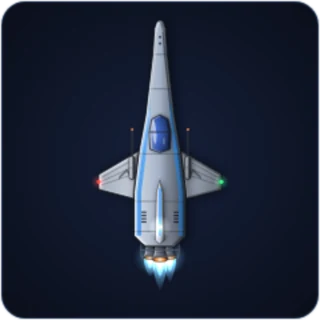
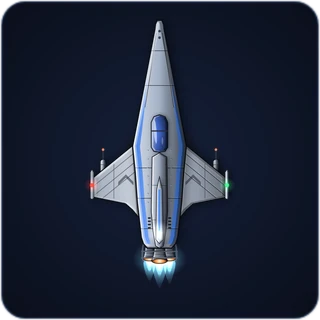
update fighter

Changed region(s): [[0.25, 0.0625, 0.75, 0.875]]

diff --git a/client/js/render/shipshd.js b/client/js/render/shipshd.js
@@ -332,20 +332,22 @@ const scout = {
 
 /* -------------------------------------------------------------- Fighter */
 // After the Viper Mk VII in plan view - the same outline as the map icon
-// (ships.js): a long wedge of a fuselage, narrow at the rounded nose and
-// broad at the stern, the blue canopy in the middle, slim delta wings with
-// small clipped tips, cannons whose barrels reach far forward, a tail fin as
-// a thin ridge and three engines close together in a cage.
+// (ships.js): a straight wedge of a fuselage from the rounded nose to the
+// wing roots, tapering again towards the stern, the blue canopy in front of
+// the wings, big swept wings with straight cut tips and a rail along them,
+// gun pods beneath the wings near the tips whose barrels reach past the
+// leading edge, a dorsal spine with the tail fin and three engines in a cage.
 // Silver of the fighter's wings, a touch brighter than the fuselage.
 const WING = '#b4bfd0';
 // Half width of the fighter's fuselage along its length - the points of hull() below.
-const FIGHTER_HULL = [[60, 1.6], [56, 2.6], [44, 3.4], [16, 6.7], [0, 9.6], [-20, 12], [-40, 12]];
+const FIGHTER_HULL = [[60, 1.1], [58, 1.9], [56, 2.1], [2, 12.4], [-10, 11.2], [-24, 10.2], [-31, 9.4],
+  [-40, 8.4], [-43, 7.4], [-45, 5.6]];
 function fighterHalfWidth(x) {
   for (let i = 1; i < FIGHTER_HULL.length; i++) {
     const [x0, y0] = FIGHTER_HULL[i - 1], [x1, y1] = FIGHTER_HULL[i];
     if (x <= x0 && x >= x1) return y0 + (y1 - y0) * (x0 - x) / (x0 - x1);
   }
-  return 12;
+  return 5.6;
 }
 
 const fighter = {
@@ -356,57 +358,64 @@ const fighter = {
     { x: -50, y: 4.6, r: 3.2, color: '#7fd8ff' }
   ],
   lights: [
-    { x: -15, y: -28.4, r: 1, color: RED, off: 0 },
-    { x: -15, y: 28.4, r: 1, color: GREEN, off: 0 },
-    { x: -36, y: 0, r: 0.9, color: WHITE, off: 0.6, strobe: true }
+    { x: -16, y: -31.1, r: 1, color: RED, off: 0 },
+    { x: -16, y: 31.1, r: 1, color: GREEN, off: 0 },
+    { x: -38, y: 0, r: 0.9, color: WHITE, off: 0.6, strobe: true }
   ],
   body(ctx, color, S) {
     for (const s of [-1, 1]) nozzle(ctx, -50, s * 4.6, 3.2, 5.5);
     nozzle(ctx, -51, 0, 3.8, 6.5);
     for (const s of [-1, 1]) {
-      // Slim delta with a small clipped tip and a nearly straight trailing edge
-      const w = () => poly(ctx, [[-0.6, s * 9.5], [-11.6, s * 28.4], [-18.6, s * 28.4], [-23, s * 11.6]]);
+      // Gun pod beneath the wing near the tip: the wing covers its rear, the
+      // barrel reaches far past the leading edge
+      const cy = s * 26;
+      const pod = capsule(ctx, -17, -4, cy, 1.3, '#9aa6b8', S * 0.6);
+      inside(ctx, pod, () => seam(ctx, -6.5, cy - 1.5, -6.5, cy + 1.5, 0.25));
+      ctx.fillStyle = '#2a303d'; ctx.fillRect(-4, cy - 0.45, 4.4, 0.9);
+      ctx.fillStyle = '#ff8a5c'; ctx.beginPath(); ctx.arc(0.4, cy, 0.6, 0, TAU); ctx.fill();
+      // Big swept wing with a straight cut tip and a nearly straight trailing
+      // edge that blends into the stern
+      const w = () => poly(ctx, [[3, s * 11.5], [-12.4, s * 30.4], [-21.6, s * 30.4], [-24.6, s * 15.6],
+        [-27.4, s * 12.4], [-31.5, s * 9]]);
       w();
       // Silver wings - the empire color sits on the fuselage stripes instead
-      const g = ctx.createLinearGradient(0, s * 9, 0, s * 28.4);
+      const g = ctx.createLinearGradient(0, s * 9, 0, s * 30.4);
       g.addColorStop(0, tone(WING, s < 0 ? 0.35 : -0.05));
       g.addColorStop(1, tone(WING, s < 0 ? -0.1 : -0.42));
       fillShadowed(ctx, g, S);
       inside(ctx, w, () => {
-        // Panel lines parallel to the trailing edge, as on the original
-        for (const d of [0, 3.5, 7]) seam(ctx, -4 - d, s * 11, -13 - d * 0.5, s * 27, 0.3);
+        // Panel lines parallel to the leading edge, as on the original
+        for (const d of [4, 8.5, 13]) seam(ctx, 3 - d, s * 11.5, -12.4 - d, s * 30.4, 0.3);
+        seam(ctx, -6, s * 21, -22, s * 21, 0.25);
         // Chevron as insignia, embossed dark into the silver
         ctx.fillStyle = 'rgba(40,46,60,.55)';
-        poly(ctx, [[-9, s * 15.5], [-12.5, s * 19], [-14, s * 19], [-10.5, s * 15.5], [-14, s * 12], [-12.5, s * 12]]); ctx.fill();
+        poly(ctx, [[-11, s * 15.5], [-14.5, s * 19], [-16, s * 19], [-12.5, s * 15.5], [-16, s * 12], [-14.5, s * 12]]); ctx.fill();
         // Leading edge shines
         ctx.fillStyle = 'rgba(255,255,255,.16)';
-        poly(ctx, [[-0.6, s * 9.5], [-11.6, s * 28.4], [-12.6, s * 27], [-1.6, s * 10]]); ctx.fill();
+        poly(ctx, [[3, s * 11.5], [-12.4, s * 30.4], [-13.6, s * 29.4], [1.8, s * 11.6]]); ctx.fill();
       });
       bevel(ctx, w, 0.8);
-      // Cannon on the wing root, snug against the fuselage: the barrel reaches
-      // far past the leading edge, alongside the canopy
-      const cy = s * 12.9;
-      const pod = capsule(ctx, -14, -3, cy, 1.3, '#9aa6b8', S * 0.6);
-      inside(ctx, pod, () => seam(ctx, -8.5, cy - 1.5, -8.5, cy + 1.5, 0.25));
-      ctx.fillStyle = '#2a303d'; ctx.fillRect(-3, cy - 0.45, 12, 0.9);
-      ctx.fillStyle = '#ff8a5c'; ctx.beginPath(); ctx.arc(9.2, cy, 0.6, 0, TAU); ctx.fill();
+      // Rail along the wing tip, a little ahead of the leading edge
+      const rail = () => poly(ctx, [[-8.6, s * 31.1], [-10, s * 30.3], [-22, s * 30.3], [-22.6, s * 31.1],
+        [-22, s * 31.9], [-10, s * 31.9]]);
+      rail(); fillShadowed(ctx, metal(ctx, s * 30.3, s * 31.9, '#aab6c8'), S * 0.5);
+      bevel(ctx, rail, 0.35);
     }
     // Engine cage around the three nozzles
     ctx.strokeStyle = '#596274'; ctx.lineWidth = 0.6;
     for (const s of [-1, 1]) {
-      ctx.beginPath(); ctx.moveTo(-43, s * 8.6); ctx.quadraticCurveTo(-49, s * 9.4, -51.5, s * 7.6); ctx.stroke();
+      ctx.beginPath(); ctx.moveTo(-43, s * 7.4); ctx.quadraticCurveTo(-49, s * 8.6, -51.5, s * 7.2); ctx.stroke();
     }
-    for (const x of [-46.5, -49.5]) { ctx.beginPath(); ctx.moveTo(x, -9); ctx.lineTo(x, 9); ctx.stroke(); }
-    // Fuselage: narrow at the rounded nose, broad at the stern
-    const hull = () => sym(ctx, [[60, 0], [59, -1.6], [56, -2.6], [44, -3.4], [16, -6.7], [0, -9.6], [-20, -12],
-      [-40, -12], [-43, -9], [-45, -6.7], [-45, 0]]);
-    hull(); fillShadowed(ctx, metal(ctx, -12, 12, '#a3b1c6'), S);
+    for (const x of [-46.5, -49.5]) { ctx.beginPath(); ctx.moveTo(x, -8.4); ctx.lineTo(x, 8.4); ctx.stroke(); }
+    // Fuselage: a wedge from the rounded nose to the wing roots, slimmer again at the stern
+    const hull = () => sym(ctx, [[60, 0], ...FIGHTER_HULL.map(([x, h]) => [x, -h]), [-45, 0]]);
+    hull(); fillShadowed(ctx, metal(ctx, -12.4, 12.4, '#a3b1c6'), S);
     inside(ctx, hull, () => {
       // Empire stripes left and right, following the contour just inside the
       // edge: a fine point behind the nose, full width from the canopy back.
       for (const s of [-1, 1]) {
-        const xs = [30, 22, 16, 8, 0, -10, -20, -30, -40];
-        const at = (x, d) => [x, s * (fighterHalfWidth(x) - 1 - d * Math.min(1, (30 - x) / 30))];
+        const xs = [34, 26, 18, 10, 2, -10, -24, -31, -40, -43];
+        const at = (x, d) => [x, s * (fighterHalfWidth(x) - 1 - d * Math.min(1, (34 - x) / 30))];
         ctx.beginPath();
         xs.forEach((x, i) => i ? ctx.lineTo(...at(x, 0)) : ctx.moveTo(...at(x, 0)));
         xs.slice().reverse().forEach(x => ctx.lineTo(...at(x, 2.4)));
@@ -416,26 +425,31 @@ const fighter = {
         g.addColorStop(1, tone(color, s < 0 ? -0.1 : -0.45));
         ctx.fillStyle = g; ctx.fill();
       }
-      for (const x of [44, 28, -2, -24, -38]) seam(ctx, x, -12, x, 12);
-      seam(ctx, 54, -1.4, 18, -5, 0.3); seam(ctx, 54, 1.4, 18, 5, 0.3);
+      for (const x of [46, 30, -8, -22, -36]) seam(ctx, x, -12.4, x, 12.4);
+      seam(ctx, 54, -1.4, 20, -6.6, 0.3); seam(ctx, 54, 1.4, 20, 6.6, 0.3);
       // Sensor openings at the nose
       ctx.fillStyle = 'rgba(20,26,38,.75)';
-      for (const x of [52, 49]) { ctx.beginPath(); ctx.arc(x, 0, 0.6, 0, TAU); ctx.fill(); }
-      // Vents and rivets on the broad back
-      vents(ctx, -34, -7.5, 4, 2.4, 1.5); vents(ctx, -34, 7.5, 4, 2.4, 1.5);
-      rivets(ctx, -22, 0, -9, 7, 0.3); rivets(ctx, -22, 0, 9, 7, 0.3);
+      for (const x of [55, 52]) { ctx.beginPath(); ctx.arc(x, 0, 0.6, 0, TAU); ctx.fill(); }
+      // Vents and rivets beside the spine
+      vents(ctx, -36, -4.7, 4, 1.4, 1.5); vents(ctx, -36, 4.7, 4, 1.4, 1.5);
+      rivets(ctx, -24, 0, -5.4, 7, 0.3); rivets(ctx, -24, 0, 5.4, 7, 0.3);
     });
     bevel(ctx, hull, 1);
-    // Tail fin - from above only a thin ridge, the empire color on its edge
-    const fin = () => sym(ctx, [[-14, 0], [-20, -1.6], [-42, -2.2], [-44, 0]]);
-    fin(); fillShadowed(ctx, metal(ctx, -2.2, 2.2, '#c3ccda'), S * 0.6);
-    inside(ctx, fin, () => { ctx.fillStyle = color; ctx.fillRect(-40, -0.5, 22, 1); });
+    // Dorsal spine from the canopy to the stern
+    const spine = () => sym(ctx, [[-1, 0], [-3, -3.4], [-28, -3.8], [-37, -3], [-44, -1.8], [-45, 0]]);
+    spine(); fillShadowed(ctx, metal(ctx, -3.8, 3.8, '#97a4b9'), S * 0.6);
+    inside(ctx, spine, () => { seam(ctx, -16, -3.6, -16, 3.6, 0.25); seam(ctx, -32, -3.5, -32, 3.5, 0.25); });
+    bevel(ctx, spine, 0.5);
+    // Tail fin on top of it - from above only a thin ridge, the empire color on its edge
+    const fin = () => sym(ctx, [[-12, 0], [-18, -1.3], [-41, -1.7], [-43, 0]]);
+    fin(); fillShadowed(ctx, '#aeb8c9', S * 0.4);
+    inside(ctx, fin, () => { ctx.fillStyle = color; ctx.fillRect(-39, -0.45, 21, 0.9); });
     bevel(ctx, fin, 0.4);
-    // Blue canopy in the middle
-    const cab = () => sym(ctx, [[16, 0], [14, -3.8], [8, -5], [0, -4.6], [-1.5, 0]]);
-    glass(ctx, cab, -1.5, 16, -5, 5, '#4f7cf0', S);
+    // Blue canopy in front of the wings
+    const cab = () => sym(ctx, [[16.5, 0], [15.6, -2.6], [13, -3.8], [1.5, -3.8], [-0.4, -2.6], [-0.8, 0]]);
+    glass(ctx, cab, -0.8, 16.5, -3.8, 3.8, '#4f7cf0', S);
     ctx.strokeStyle = 'rgba(40,46,60,.9)'; ctx.lineWidth = 0.6;
-    ctx.beginPath(); ctx.moveTo(8, -5); ctx.lineTo(8, 5); ctx.stroke();
+    ctx.beginPath(); ctx.moveTo(9, -3.8); ctx.lineTo(9, 3.8); ctx.stroke();
   }
 };
 

diff --git a/client/js/render/ships.js b/client/js/render/ships.js
@@ -155,66 +155,73 @@ function drawScout(ctx, L, color, phase) {
 
 /* -------------------------------------------------------------- Fighter */
 function drawFighter(ctx, L, color, phase) {
-  // After the Viper Mk VII in plan view (units of L/100): a long wedge of a
-  // fuselage, the blue canopy in the middle, slim delta wings with small
-  // clipped tips, cannons whose barrels reach far forward, three engines.
+  // After the Viper Mk VII in plan view (units of L/100): a straight wedge of
+  // a fuselage up to the wing roots, slimmer again at the stern, the blue
+  // canopy in front of big swept wings with straight cut tips, gun pods
+  // beneath the wings near the tips, a dorsal spine, three engines.
   const u = L / 100;
   const P = (pts, s = 1) => tracePath(ctx, pts.map(([x, y]) => [x * u, s * y * u]));
   const mirror = pts => [...pts, ...pts.slice(1, -1).reverse().map(([x, y]) => [x, -y])];
   // Three engines close together
   engineGlow(ctx, -L * 0.53, 0, L * 0.24, phase);
   for (const s of [-1, 1]) engineGlow(ctx, -L * 0.51, s * 4.6 * u, L * 0.17, phase + 0.9 * s);
-  // Slim silver delta wings - the empire color sits on the fuselage stripes
   for (const s of [-1, 1]) {
-    P([[-0.6, 9.5], [-11.6, 28.4], [-18.6, 28.4], [-23, 11.6]], s); ctx.closePath();
+    // Gun pod beneath the wing: only its front and the barrel show
+    const y = s * 26 * u;
+    ctx.strokeStyle = '#c3ccd8'; ctx.lineWidth = Math.max(0.6, L * 0.018);
+    ctx.beginPath(); ctx.moveTo(-4 * u, y); ctx.lineTo(0.5 * u, y); ctx.stroke();
+    ctx.fillStyle = '#8994a8';
+    ctx.beginPath(); ctx.roundRect(-17 * u, y - 1.3 * u, 13 * u, 2.6 * u, 1.3 * u); ctx.fill();
+    outline(ctx, fine(L) * 0.6);
+    // Big swept silver wings - the empire color sits on the fuselage stripes
+    P([[3, 11.5], [-12.4, 30.4], [-21.6, 30.4], [-24.6, 15.6], [-27.4, 12.4], [-31.5, 9]], s); ctx.closePath();
     ctx.fillStyle = '#b4bfd0'; ctx.fill();
     // Light from above: the lower wing lies in shade, both darken outwards
-    const g = ctx.createLinearGradient(0, s * 9 * u, 0, s * 28 * u);
+    const g = ctx.createLinearGradient(0, s * 9 * u, 0, s * 30 * u);
     g.addColorStop(0, `rgba(10,14,26,${s < 0 ? 0 : 0.2})`);
     g.addColorStop(1, `rgba(10,14,26,${s < 0 ? 0.25 : 0.5})`);
     ctx.fillStyle = g; ctx.fill(); outline(ctx, 0.9);
-    seam(ctx, L, [[-8 * u, s * 13 * u], [-15 * u, s * 26 * u]]);
-    // Cannon on the wing root, snug against the fuselage: pod and a light
-    // barrel far past the leading edge
-    const y = s * 12.9 * u;
-    ctx.strokeStyle = '#c3ccd8'; ctx.lineWidth = Math.max(0.6, L * 0.018);
-    ctx.beginPath(); ctx.moveTo(-3 * u, y); ctx.lineTo(9 * u, y); ctx.stroke();
-    ctx.fillStyle = '#8994a8';
-    ctx.beginPath(); ctx.roundRect(-14 * u, y - 1.3 * u, 11 * u, 2.6 * u, 1.3 * u); ctx.fill();
+    seam(ctx, L, [[-3 * u, s * 13 * u], [-17 * u, s * 29.6 * u]]);
+    // Rail along the straight wing tip
+    ctx.fillStyle = '#aab4c6';
+    ctx.beginPath(); ctx.roundRect(-22.6 * u, s * 31.1 * u - 0.8 * u, 14 * u, 1.6 * u, 0.8 * u); ctx.fill();
     outline(ctx, fine(L) * 0.6);
   }
-  edgeLight(ctx, L, [[-0.6 * u, -9.5 * u], [-11.6 * u, -28.4 * u]], 0.45);
+  edgeLight(ctx, L, [[3 * u, -11.5 * u], [-12.4 * u, -30.4 * u]], 0.45);
   nozzle(ctx, L, -47 * u, 0, 3.4 * u);
   for (const s of [-1, 1]) nozzle(ctx, L, -46 * u, s * 4.6 * u, 2.8 * u);
-  // Fuselage: narrow at the rounded nose, broad at the stern
-  P(mirror([[60, 0], [59, -1.6], [56, -2.6], [44, -3.4], [16, -6.7], [0, -9.6], [-20, -12],
-    [-40, -12], [-43, -9], [-45, -6.7], [-45, 0]])); ctx.closePath();
+  // Fuselage: a wedge from the rounded nose to the wing roots, slimmer again
+  // at the stern (same points as in shipshd.js)
+  P(mirror([[60, 0], [60, -1.1], [58, -1.9], [56, -2.1], [2, -12.4], [-10, -11.2], [-24, -10.2], [-31, -9.4],
+    [-40, -8.4], [-43, -7.4], [-45, -5.6], [-45, 0]])); ctx.closePath();
   ctx.fillStyle = hullGradient(ctx, L * 0.3); ctx.fill(); outline(ctx, 1);
   // Empire stripes left and right just inside the edge: a fine point behind
   // the nose, full width from the canopy back (same as in shipshd.js). Small
   // on the map they get wider - the empire must still be recognizable there.
-  const half = [[30, 5.0], [16, 6.7], [0, 9.6], [-20, 12], [-40, 12]];
+  const half = [[34, 6.3], [2, 12.4], [-10, 11.2], [-24, 10.2], [-31, 9.4], [-40, 8.4], [-43, 7.4]];
   const k = L < 30 ? 2 : L < 60 ? 1.5 : 1;
   for (const s of [-1, 1]) {
-    const w = x => Math.min(1, (30 - x) / 30) * 2.4 * k;
+    const w = x => Math.min(1, (34 - x) / 30) * 2.4 * k;
     P([...half.map(([x, h]) => [x, h - 1]), ...half.slice().reverse().map(([x, h]) => [x, h - 1 - w(x)])], s);
     ctx.closePath();
     ctx.fillStyle = color; ctx.fill();
     ctx.fillStyle = `rgba(10,14,26,${s < 0 ? 0 : 0.2})`; ctx.fill();
   }
-  edgeLight(ctx, L, [[56 * u, -2.2 * u], [16 * u, -6.2 * u], [-38 * u, -11.4 * u]]);
-  seam(ctx, L, [[-24 * u, -11.6 * u], [-24 * u, 11.6 * u]]);
-  // Spine with the tail fin as a light ridge
-  P([[-14, 0], [-20, -1.6], [-42, -2.2], [-44, 0], [-42, 2.2], [-20, 1.6]]); ctx.closePath();
-  ctx.fillStyle = '#c3cbd8'; ctx.fill(); outline(ctx, fine(L) * 0.7);
-  // Blue canopy in the middle
+  edgeLight(ctx, L, [[56 * u, -1.7 * u], [2 * u, -11.9 * u], [-10 * u, -10.7 * u]]);
+  seam(ctx, L, [[-22 * u, -10.2 * u], [-22 * u, 10.2 * u]]);
+  // Dorsal spine with the tail fin as a light ridge
+  P(mirror([[-1, 0], [-3, -3.4], [-28, -3.8], [-37, -3], [-44, -1.8], [-45, 0]])); ctx.closePath();
+  ctx.fillStyle = '#a2aec0'; ctx.fill(); outline(ctx, fine(L) * 0.7);
+  P(mirror([[-12, 0], [-18, -1.3], [-41, -1.7], [-43, 0]])); ctx.closePath();
+  ctx.fillStyle = '#bcc5d3'; ctx.fill(); outline(ctx, fine(L) * 0.5);
+  // Blue canopy in front of the wings
   const cg = ctx.createLinearGradient(-1 * u, 0, 16 * u, 0);
   cg.addColorStop(0, 'rgba(60,100,230,.95)');
   cg.addColorStop(1, 'rgba(140,175,255,.9)');
   ctx.fillStyle = cg;
-  P(mirror([[16, 0], [14, -3.8], [8, -5], [0, -4.6], [-1.5, 0]])); ctx.closePath(); ctx.fill();
+  P(mirror([[16.5, 0], [15.6, -2.6], [13, -3.8], [1.5, -3.8], [-0.4, -2.6], [-0.8, 0]])); ctx.closePath(); ctx.fill();
   outline(ctx, fine(L) * 0.8);
-  glint(ctx, 10 * u, -2 * u, 3.6 * u, 1 * u);
+  glint(ctx, 10 * u, -1.6 * u, 3.6 * u, 0.9 * u);
 }
 
 /* ------------------------------------------------------------ Satellite */
